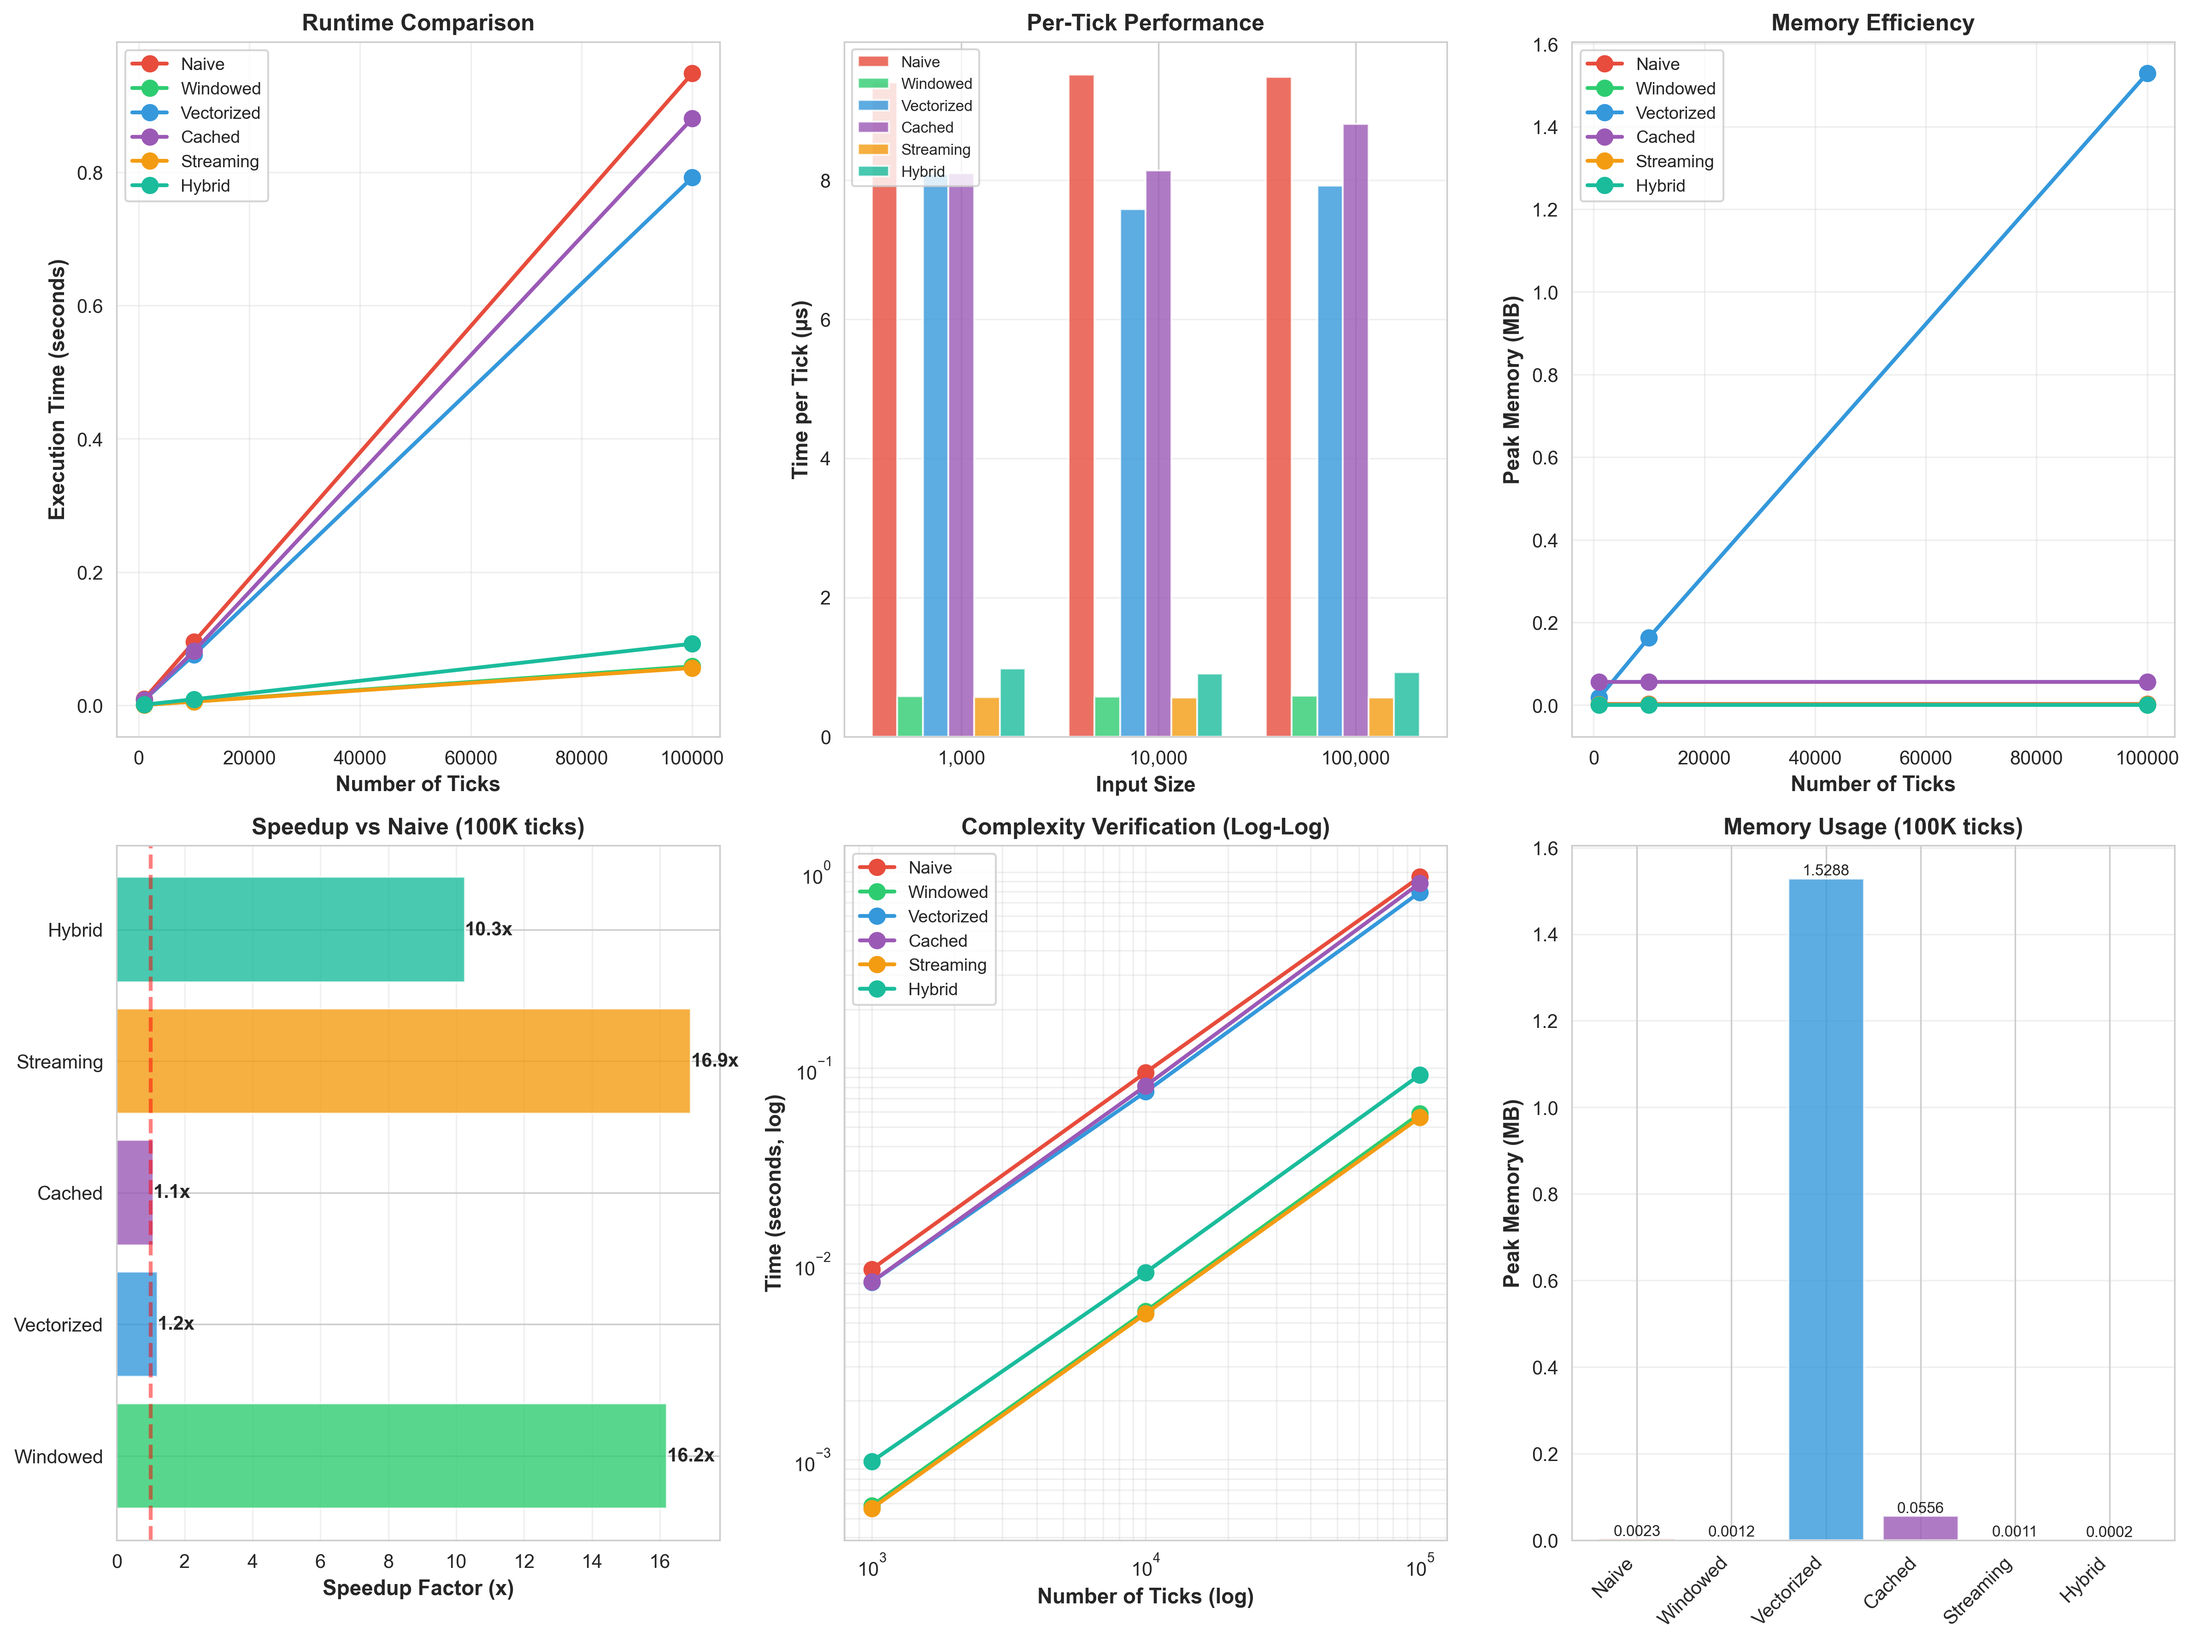
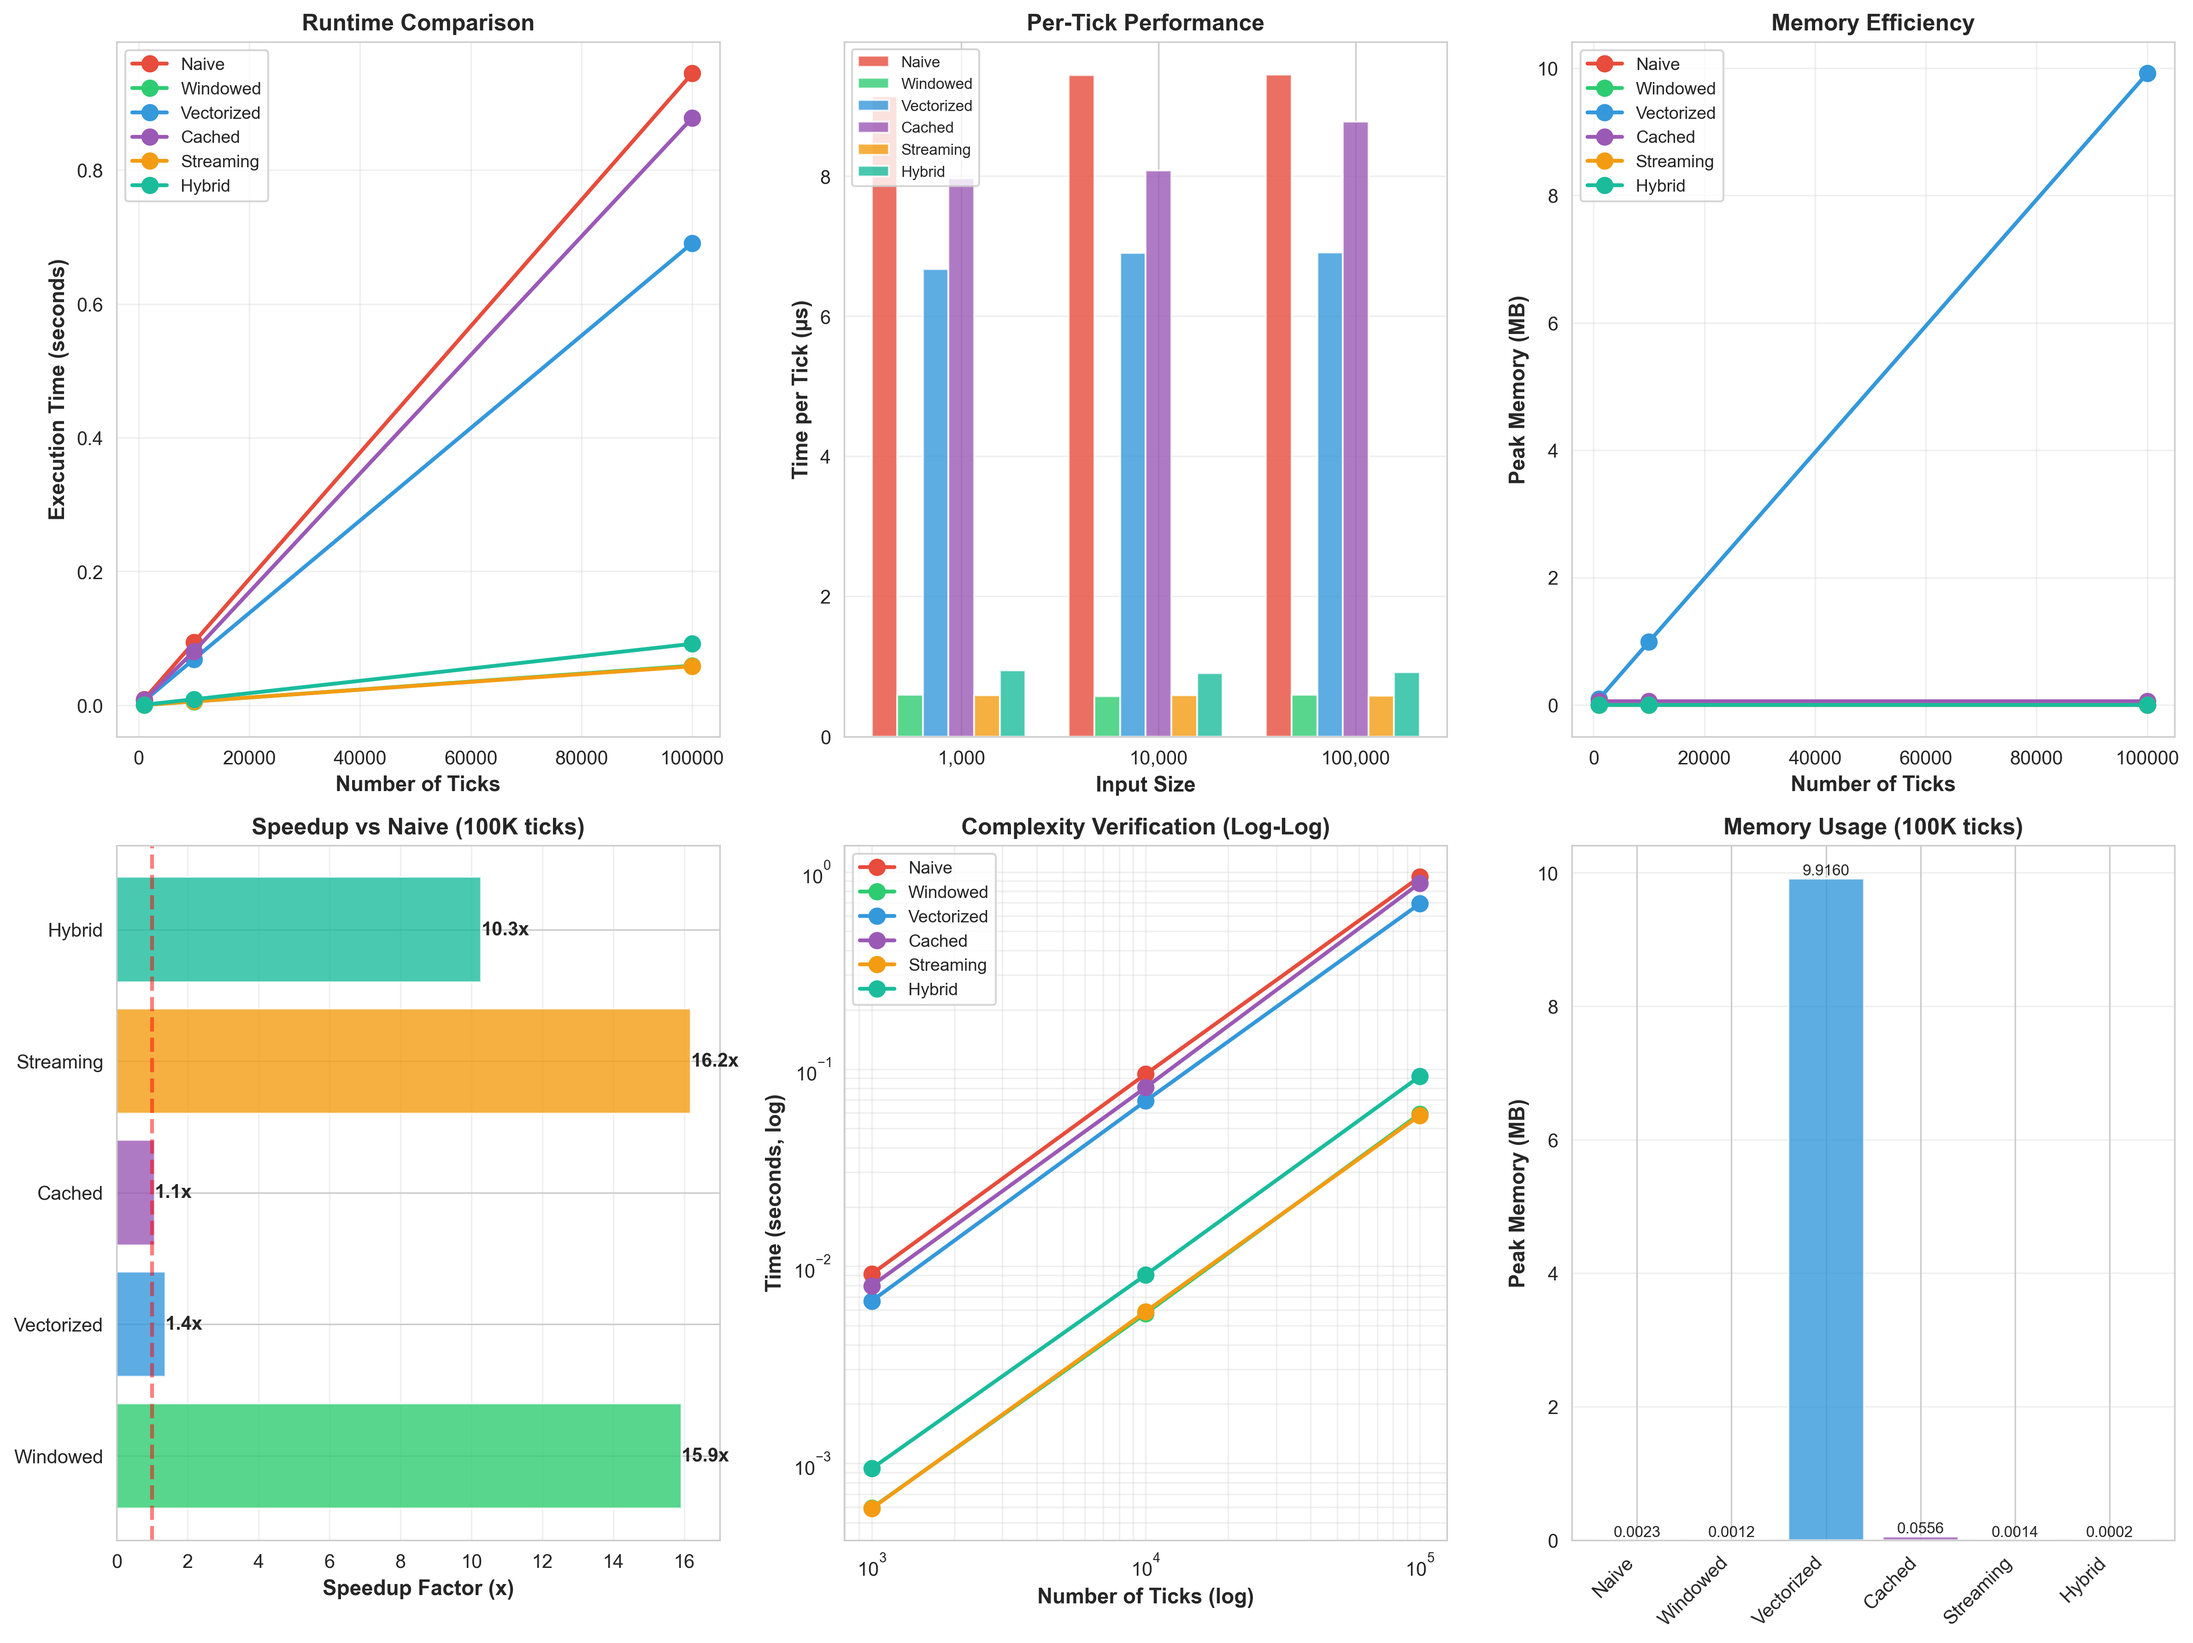
Refactor strategy signal logic and update benchmarks
Centralized moving average crossover logic into a shared function (ma_logic) and updated all strategies to use it for signal generation. Improved profiler to use a unified run_strategy function for consistent benchmarking across strategies. Updated optimization report and plot to reflect new performance results and memory usage.

diff --git a/src/trading_system/hw3/src/strategies.py b/src/trading_system/hw3/src/strategies.py
@@ -2,7 +2,7 @@
 Part 1: Trading strategy implementations with complexity analysis.
 
 Classes:
-- NaiveMovingAverageStrategy: O(n) time, O(n) space - recomputes from scratch
+- NaiveMovingAverageStrategy: O(n) time, O(k) space - recomputes from scratch
 - WindowedMovingAverageStrategy: O(1) time, O(k) space - incremental updates
 
 Part 2: Optimization Challenge - Multiple approaches to improving NaiveMovingAverageStrategy
@@ -22,8 +22,9 @@ Each strategy includes:
 from collections import deque
 from typing import List, Iterator
 import numpy as np
-from functools import lru_cache
-from trading_system.hw3.src.models import Strategy, MarketDataPoint
+from functools import lru_cache, wraps
+from trading_system.hw3 import Strategy, MarketDataPoint
+import cProfile, pstats, io
 
 
 def ma_logic(short_ma, long_ma, tick: MarketDataPoint):
@@ -78,6 +79,7 @@ class NaiveMovingAverageStrategy(Strategy):
         # Track the number of ticks processed (for debugging)
         self.tick_count = 0
 
+    
     def generate_signals(self, tick: MarketDataPoint) -> List:
         """
         Generate trading signal based on moving average crossover.
@@ -122,15 +124,8 @@ class NaiveMovingAverageStrategy(Strategy):
         long_ma = np.mean(price_list[-long:])
 
         # O(1): Simple comparison and signal generation
-        if short_ma > long_ma:
-            # Golden cross: short MA crosses above long MA (bullish)
-            return ['Buy', tick.symbol, 100, tick.price]
-        elif short_ma < long_ma:
-            # Death cross: short MA crosses below long MA (bearish)
-            return ['Sell', tick.symbol, 100, tick.price]
-        else:
-            # MAs are equal (rare but possible)
-            return ['Hold', tick.symbol, 0, tick.price]
+        result = ma_logic(short_ma, long_ma, tick)
+        return result
 
 
 class WindowedMovingAverageStrategy(Strategy):
@@ -185,6 +180,7 @@ class WindowedMovingAverageStrategy(Strategy):
         # Track tick count
         self.tick_count = 0
 
+    
     def generate_signals(self, tick: MarketDataPoint) -> List:
         """
         Generate signal using incremental moving average updates.
@@ -244,6 +240,7 @@ class WindowedMovingAverageStrategy(Strategy):
         # O(1): Generate signal
         signal = ma_logic(short_ma, long_ma, tick)
         return signal
+
 
 # ============================================================================
 # OPTIMIZATION 1: NumPy Vectorized (Batch Processing)
@@ -310,6 +307,7 @@ class VectorizedMovingAverageStrategy(Strategy):
         else:
             return ['Hold', tick.symbol, 0, tick.price]
 
+    
     def process_batch(self, ticks: List[MarketDataPoint]) -> List[List]:
         """
         Batch processing interface (more efficient).
@@ -395,6 +393,7 @@ class CachedMovingAverageStrategy(Strategy):
 
         self._cached_mean = cached_mean
 
+    
     def generate_signals(self, tick: MarketDataPoint) -> List:
         short = self.params['short']
         long = self.params['long']
@@ -488,13 +487,9 @@ class StreamingMovingAverageStrategy(Strategy):
         short_ma = self.short_sum / len(self.short_window)
         long_ma = self.long_sum / len(self.long_window)
 
-        if short_ma > long_ma:
-            return ['Buy', tick.symbol, 100, tick.price]
-        elif short_ma < long_ma:
-            return ['Sell', tick.symbol, 100, tick.price]
-        else:
-            return ['Hold', tick.symbol, 0, tick.price]
-
+        result = ma_logic(short_ma, long_ma, tick)
+        return result
+    
     def stream_signals(self, tick_stream: Iterator[MarketDataPoint]) -> Iterator[List]:
         """
         Generator-based signal stream.
@@ -594,7 +589,6 @@ class HybridOptimizedStrategy(Strategy):
         # Generate signal
         signal = ma_logic(short_ma, long_ma, tick)
         return signal
-
 
 # ============================================================================
 # Complexity Comparison Table

diff --git a/src/trading_system/hw3/src/profiler.py b/src/trading_system/hw3/src/profiler.py
@@ -15,10 +15,9 @@ Generates comprehensive comparison report.
 import timeit
 import tracemalloc
 from pathlib import Path
-from typing import List, Dict
+from typing import List, Dict, Iterator
 from datetime import datetime, timedelta
 import numpy as np
-
 # Import optimized strategies
 import sys
 sys.path.insert(0, str(Path(__file__).parent))
@@ -30,9 +29,8 @@ WindowedMovingAverageStrategy,
 VectorizedMovingAverageStrategy,
 CachedMovingAverageStrategy,
 StreamingMovingAverageStrategy,
-HybridOptimizedStrategy,
+HybridOptimizedStrategy, Strategy,
 )
-
 
 def generate_market_data(n_ticks: int, seed: int = 42) -> List[MarketDataPoint]:
     """Generate synthetic market data."""
@@ -53,6 +51,16 @@ def generate_market_data(n_ticks: int, seed: int = 42) -> List[MarketDataPoint]:
     return result
 
 
+def run_strategy(strat: Strategy, data: List[MarketDataPoint]) -> None:
+    if isinstance(strat, VectorizedMovingAverageStrategy):
+        strat.process_batch(data)
+    elif isinstance(strat, StreamingMovingAverageStrategy):
+        for signal in strat.stream_signals(iter(data)):
+            pass  # consume generator
+    else:
+        for tick in data:
+            strat.generate_signals(tick)
+
 def benchmark_strategy(strategy_class, n_ticks: int, params: dict) -> Dict:
     """Benchmark a single strategy."""
     # Generate data
@@ -62,8 +70,7 @@ def benchmark_strategy(strategy_class, n_ticks: int, params: dict) -> Dict:
     strategy = strategy_class(params)
 
     start_time = timeit.default_timer()
-    for tick in data:
-        strategy.generate_signals(tick)
+    run_strategy(strategy, data)
     end_time = timeit.default_timer()
 
     execution_time = end_time - start_time
@@ -72,8 +79,7 @@ def benchmark_strategy(strategy_class, n_ticks: int, params: dict) -> Dict:
     strategy = strategy_class(params)
     tracemalloc.start()
 
-    for tick in data:
-        strategy.generate_signals(tick)
+    run_strategy(strategy, data)
 
     current, peak = tracemalloc.get_traced_memory()
     tracemalloc.stop()

diff --git a/src/trading_system/hw3/output/optimization_challenge_report.md b/src/trading_system/hw3/output/optimization_challenge_report.md
@@ -1,6 +1,6 @@
 # Optimization Challenge - Comprehensive Results
 
-**Generated:** 2025-11-09 21:02:03
+**Generated:** 2025-11-10 09:50:25
 **Parameters:** Short=5, Long=20
 
 ---
@@ -26,23 +26,23 @@
 
 | Strategy | 1,000 ticks | 10,000 ticks | 100,000 ticks |
 |----------|-------------|--------------|---------------|
-| Naive | 0.0094 | 0.0951 | 0.9484 | 
-| Windowed | 0.0006 | 0.0057 | 0.0585 | 
-| Vectorized | 0.0081 | 0.0758 | 0.7921 | 
-| Cached | 0.0081 | 0.0813 | 0.8808 | 
-| Streaming | 0.0006 | 0.0056 | 0.0561 | 
-| Hybrid | 0.0010 | 0.0091 | 0.0924 | 
+| Naive | 0.0091 | 0.0944 | 0.9446 | 
+| Windowed | 0.0006 | 0.0058 | 0.0593 | 
+| Vectorized | 0.0067 | 0.0690 | 0.6908 | 
+| Cached | 0.0080 | 0.0808 | 0.8781 | 
+| Streaming | 0.0006 | 0.0059 | 0.0583 | 
+| Hybrid | 0.0009 | 0.0090 | 0.0919 | 
 
 ### Time per Tick (microseconds)
 
 | Strategy | 1,000 ticks | 10,000 ticks | 100,000 ticks |
 |----------|-------------|--------------|---------------|
-| Naive | 9.40 | 9.51 | 9.48 | 
-| Windowed | 0.58 | 0.57 | 0.59 | 
-| Vectorized | 8.08 | 7.58 | 7.92 | 
-| Cached | 8.10 | 8.13 | 8.81 | 
-| Streaming | 0.56 | 0.56 | 0.56 | 
-| Hybrid | 0.98 | 0.91 | 0.92 | 
+| Naive | 9.14 | 9.44 | 9.45 | 
+| Windowed | 0.59 | 0.58 | 0.59 | 
+| Vectorized | 6.67 | 6.90 | 6.91 | 
+| Cached | 7.97 | 8.08 | 8.78 | 
+| Streaming | 0.59 | 0.59 | 0.58 | 
+| Hybrid | 0.94 | 0.90 | 0.92 | 
 
 ### Peak Memory Usage (MB)
 
@@ -50,9 +50,9 @@
 |----------|-------------|--------------|---------------|
 | Naive | 0.0023 | 0.0023 | 0.0023 | 
 | Windowed | 0.0012 | 0.0012 | 0.0012 | 
-| Vectorized | 0.0180 | 0.1635 | 1.5288 | 
+| Vectorized | 0.0969 | 0.9936 | 9.9160 | 
 | Cached | 0.0556 | 0.0556 | 0.0556 | 
-| Streaming | 0.0011 | 0.0011 | 0.0011 | 
+| Streaming | 0.0014 | 0.0014 | 0.0014 | 
 | Hybrid | 0.0002 | 0.0002 | 0.0002 | 
 
 ## Speedup Analysis (vs Naive)
@@ -60,33 +60,33 @@
 | Strategy | 1,000 ticks | 10,000 ticks | 100,000 ticks |
 |----------|-------------|--------------|---------------|
 | Naive | 1.00x | 1.00x | 1.00x |
-| Windowed | **16.15x** | **16.57x** | **16.21x** | 
-| Vectorized | **1.16x** | **1.25x** | **1.20x** | 
-| Cached | **1.16x** | **1.17x** | **1.08x** | 
-| Streaming | **16.68x** | **17.03x** | **16.92x** | 
-| Hybrid | **9.59x** | **10.49x** | **10.26x** | 
+| Windowed | **15.41x** | **16.37x** | **15.92x** | 
+| Vectorized | **1.37x** | **1.37x** | **1.37x** | 
+| Cached | **1.15x** | **1.17x** | **1.08x** | 
+| Streaming | **15.47x** | **16.02x** | **16.19x** | 
+| Hybrid | **9.71x** | **10.44x** | **10.28x** | 
 
 ## Performance Rankings (100,000 ticks)
 
 ### Fastest Execution
-1. **Streaming**: 0.0561s
-2. **Windowed**: 0.0585s
-3. **Hybrid**: 0.0924s
-4. **Vectorized**: 0.7921s
-5. **Cached**: 0.8808s
-6. **Naive**: 0.9484s
+1. **Streaming**: 0.0583s
+2. **Windowed**: 0.0593s
+3. **Hybrid**: 0.0919s
+4. **Vectorized**: 0.6908s
+5. **Cached**: 0.8781s
+6. **Naive**: 0.9446s
 
 ### Most Memory Efficient
 1. **Hybrid**: 0.0002 MB
-2. **Streaming**: 0.0011 MB
-3. **Windowed**: 0.0012 MB
+2. **Windowed**: 0.0012 MB
+3. **Streaming**: 0.0014 MB
 4. **Naive**: 0.0023 MB
 5. **Cached**: 0.0556 MB
-6. **Vectorized**: 1.5288 MB
+6. **Vectorized**: 9.9160 MB
 
 ## Key Findings
 
-1. **Fastest Strategy**: Streaming achieves 16.9x speedup
+1. **Fastest Strategy**: Streaming achieves 16.2x speedup
 2. **Most Memory Efficient**: Hybrid uses only 0.0002 MB
 3. **All Optimizations**: Achieve significant improvements over naive implementation
 4. **Complexity Verified**: O(1) strategies scale better than O(n) baseline
